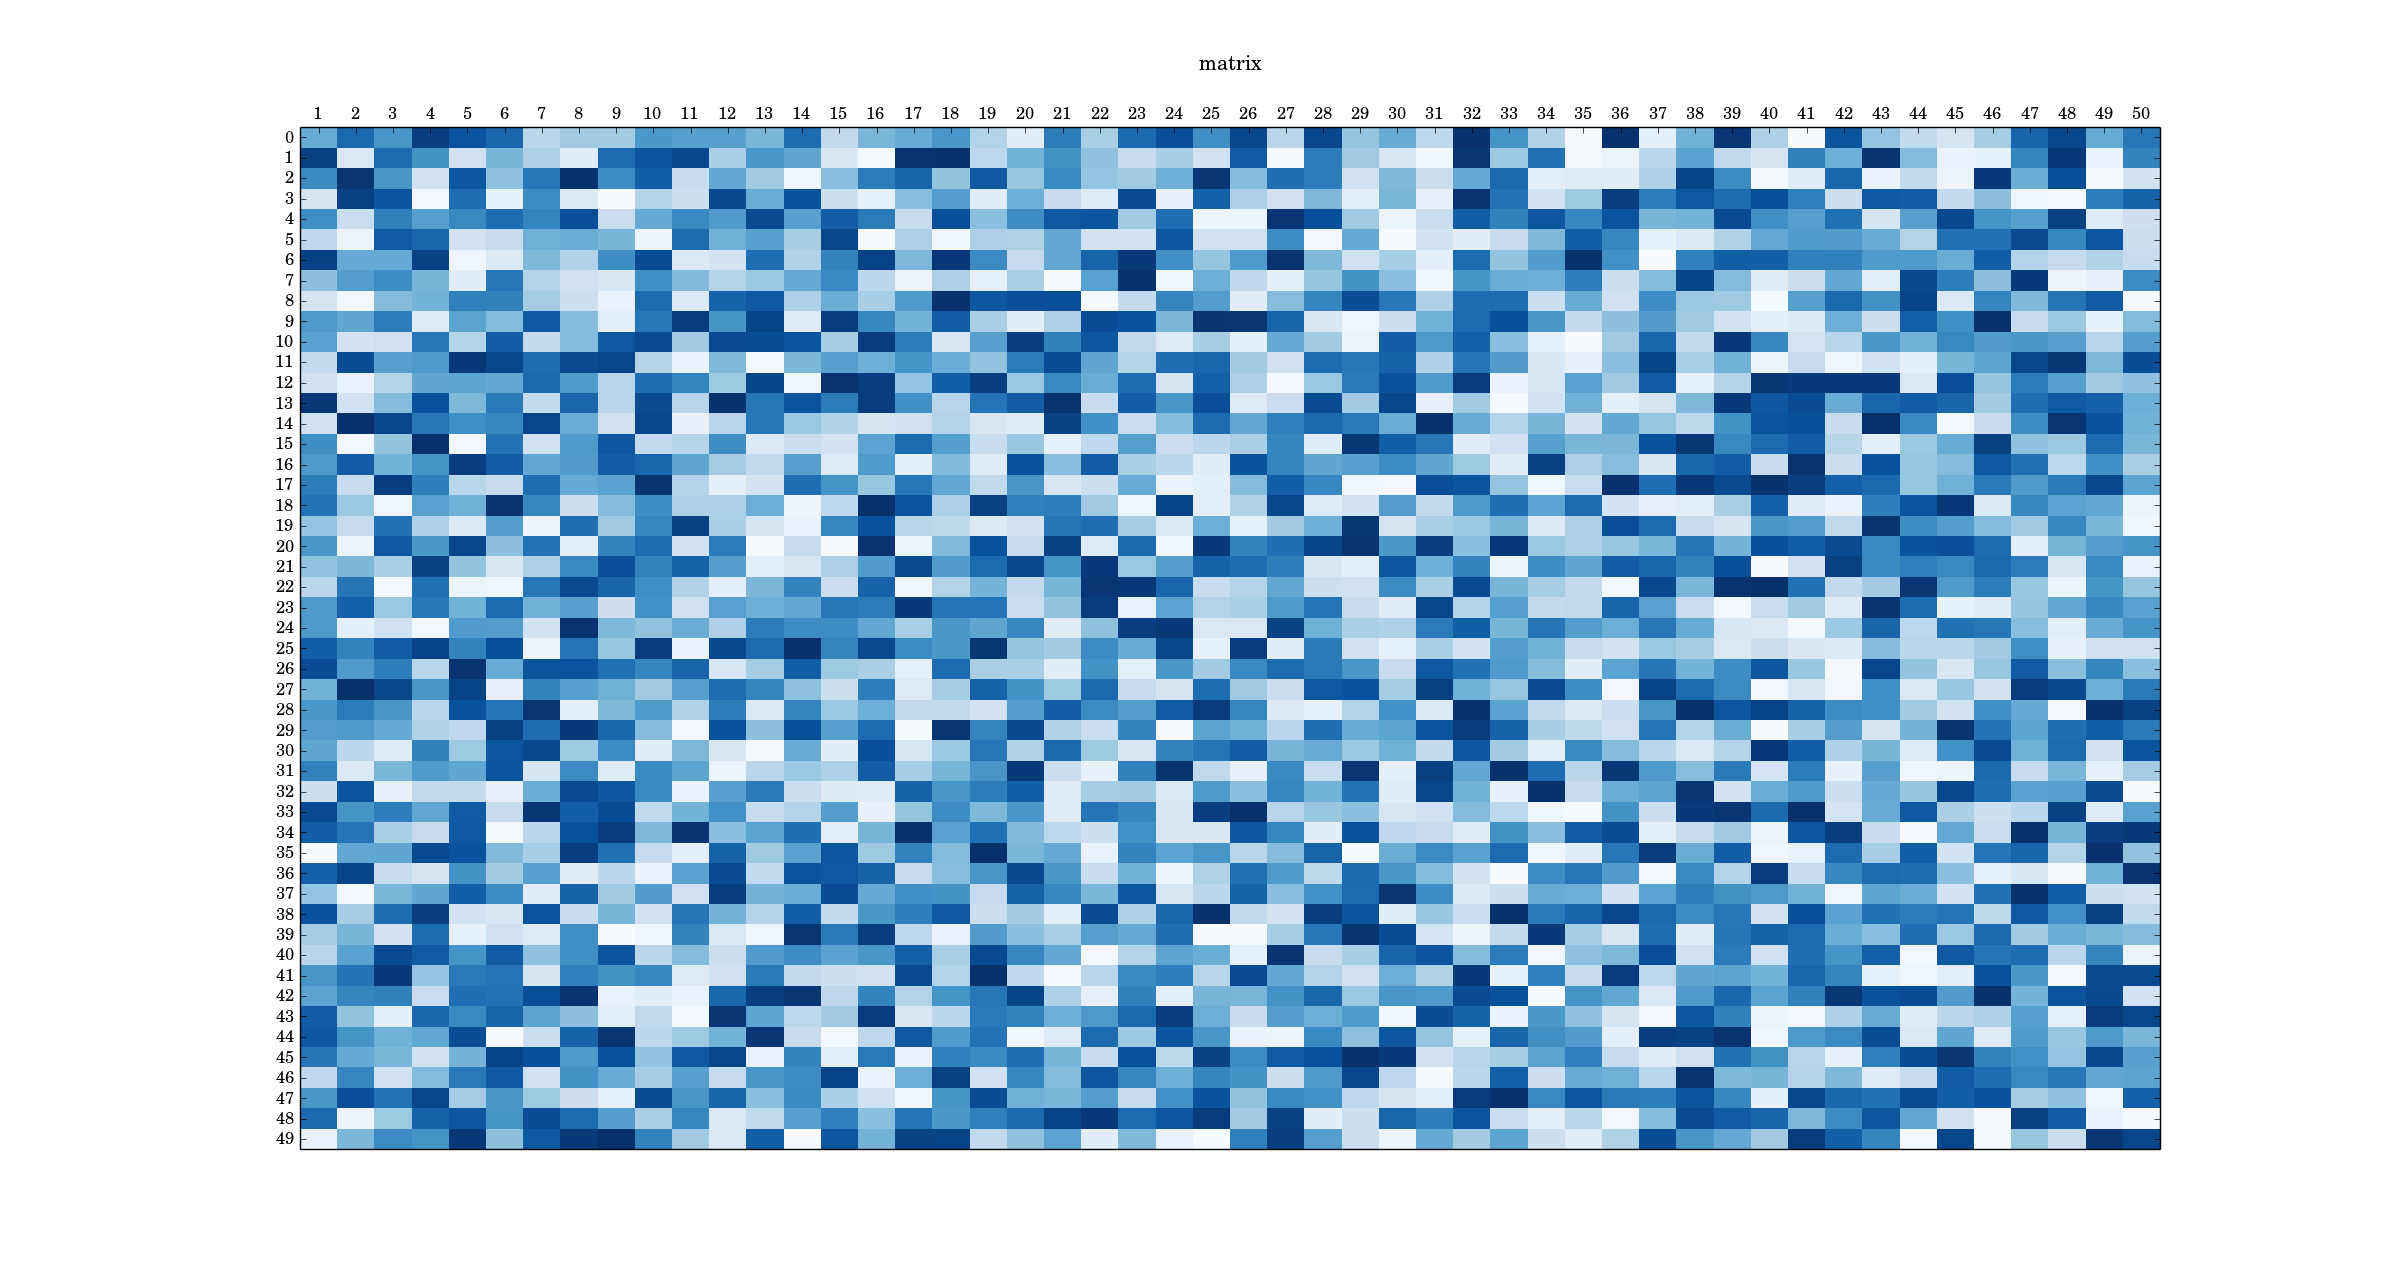
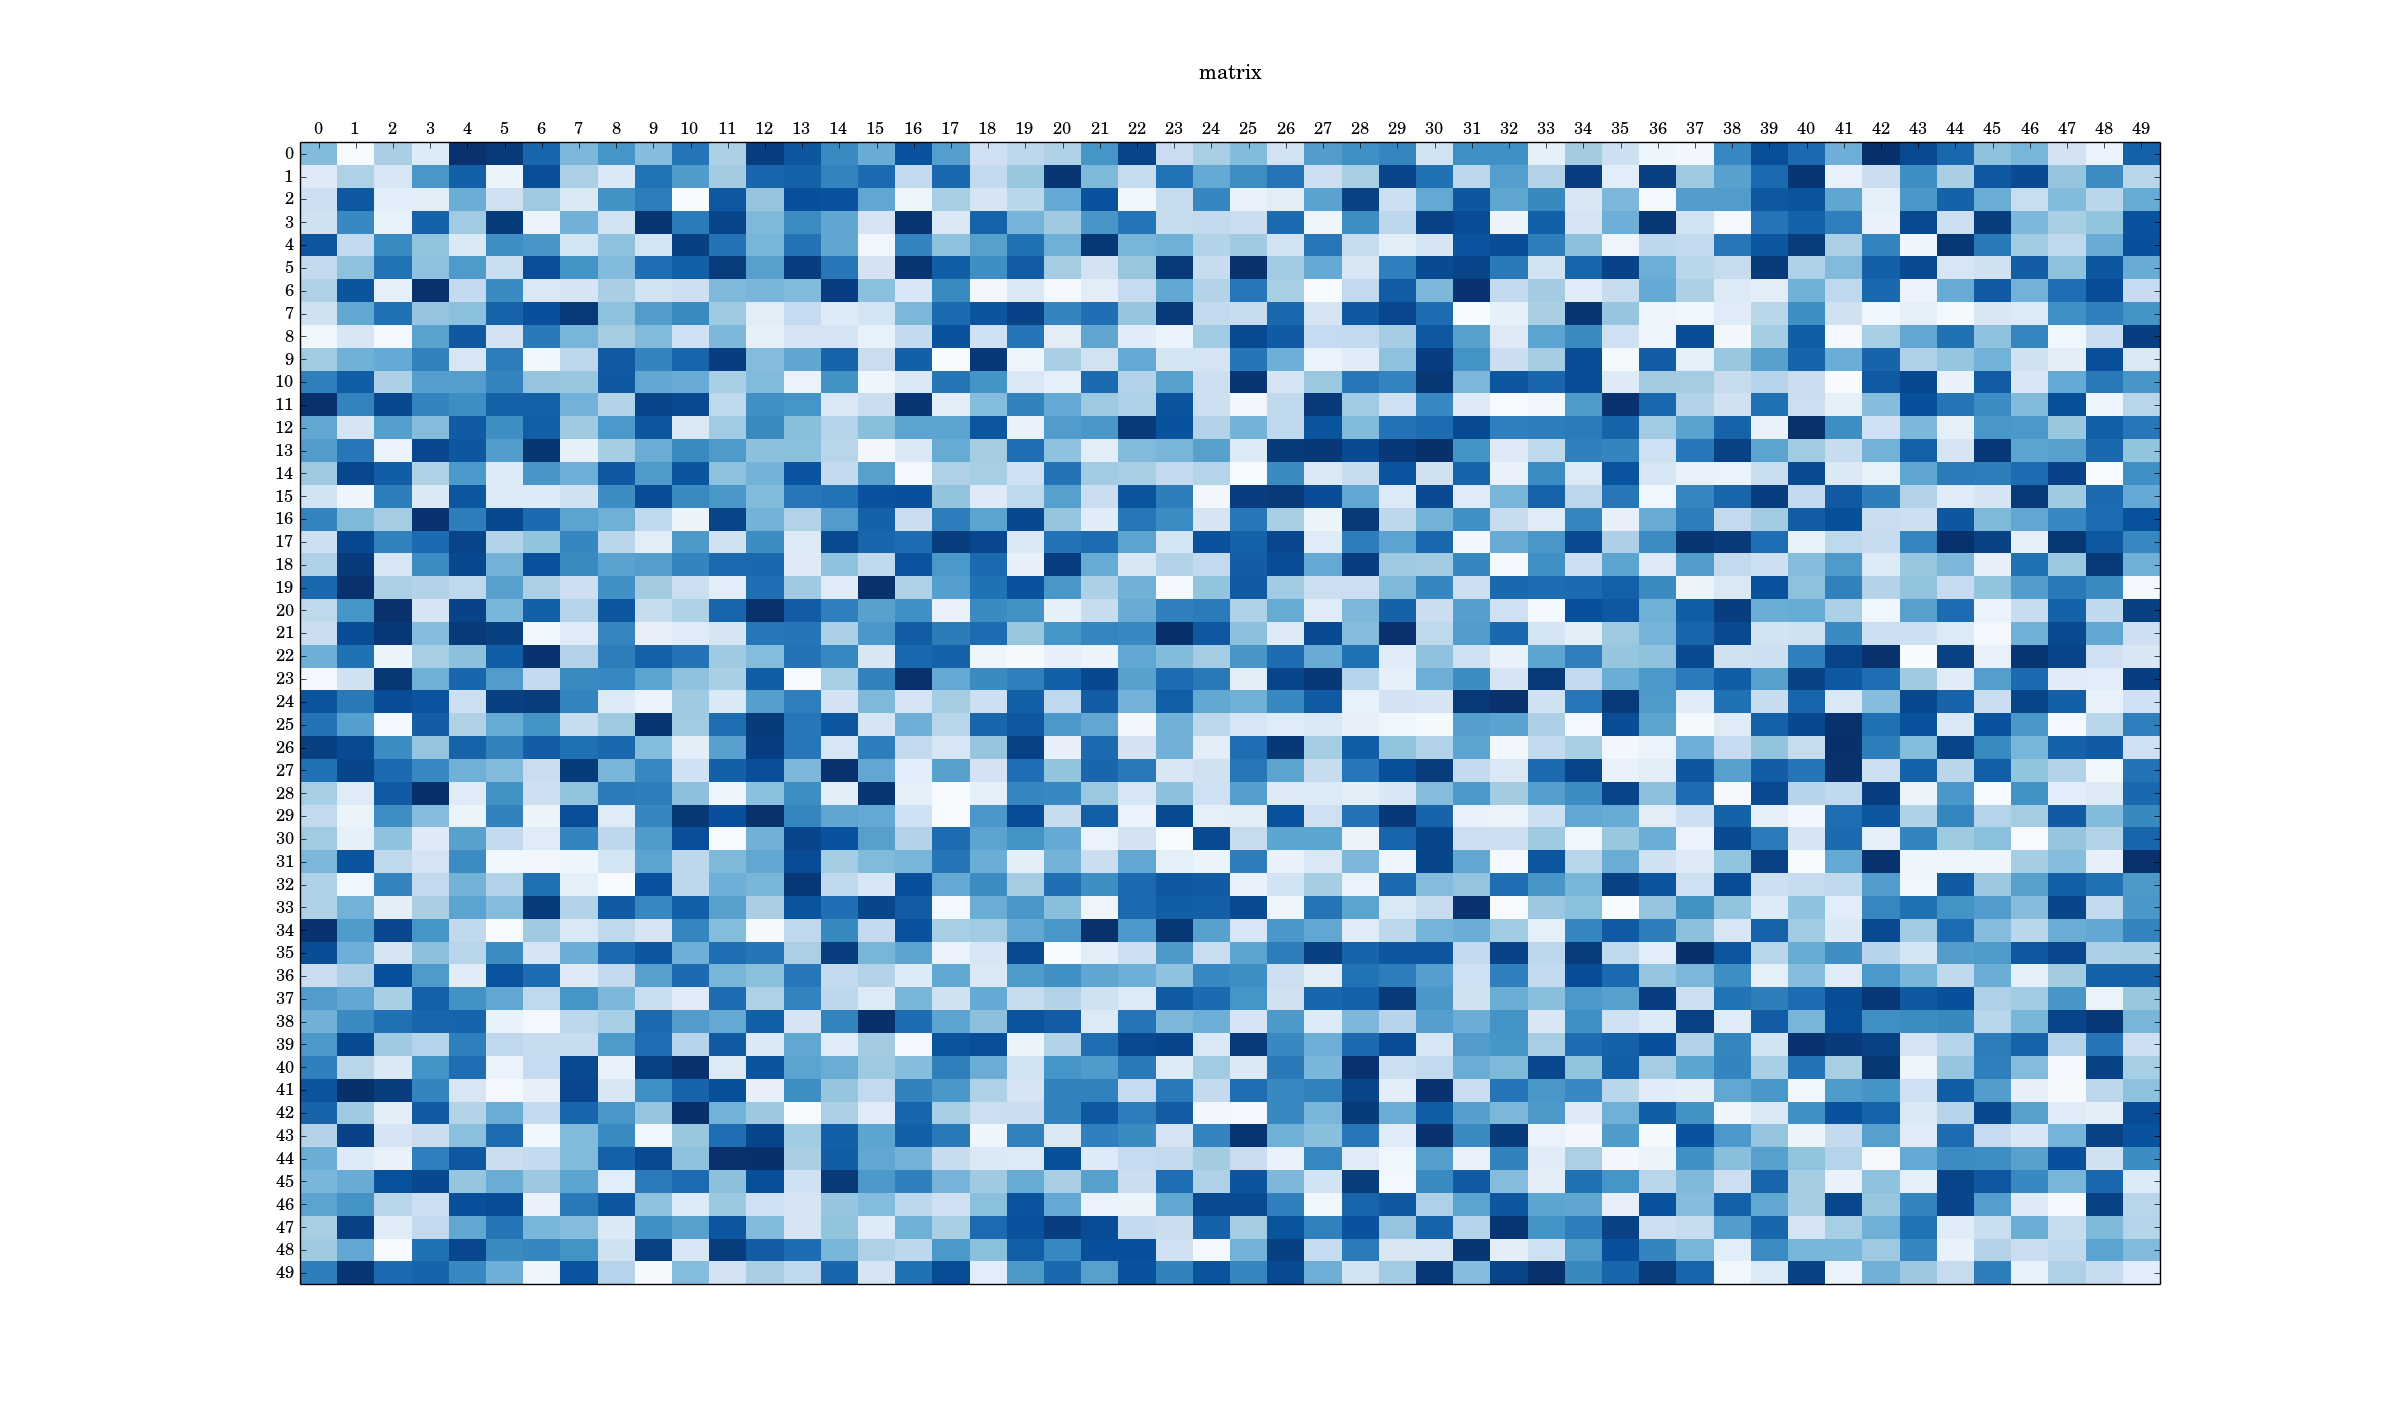
generalise handling of input lists, fix axis labels

diff --git a/datavision.py b/datavision.py
@@ -28,7 +28,7 @@
 #                                                                              #
 ################################################################################
 
-version = "2014-11-17T1904Z"
+version = "2014-11-17T2334Z"
 
 import random
 import matplotlib.pyplot as plt
@@ -89,7 +89,7 @@ class Matrix(list):
         else:
             self._plotFigure, \
             self._plotAxes       = plotList(
-                                       list       = self,
+                                       listObject = self,
                                        title      = self.title,
                                        plotNumber = self._plotNumber,
                                        plot       = False,
@@ -117,7 +117,7 @@ class Matrix(list):
         self._plotShown = False
 
 def plotList(
-    list       = list,
+    listObject = None,
     title      = None,
     plotNumber = None,
     style      = "colormap",
@@ -129,47 +129,41 @@ def plotList(
     ):
     if not plotNumber:
         plotNumber = shijian.uniqueNumber()
-    # convert list to NumPy array
-    array = np.array(list)
-    dimensionality = len(array.shape)
-    if dimensionality == 2:
-        if style == "colormap":
-            # create axis labels
-            labelsColumn = []
-            labelsRow = []
-            for rowNumber in range(0, len(list)):
-                labelsRow.append(rowNumber + 1)
-                for columnNumber in range(0, len(list[rowNumber])):
-                    labelsColumn.append(columnNumber)
-            figure = plt.figure(str(plotNumber))
-            axes = figure.add_subplot(111)
-            colormap = axes.pcolor(array, cmap = plt.cm.Blues)
-            # major ticks at middle of each cell
-            axes.set_xticks(np.arange(array.shape[0]) + 0.5, minor = False)
-            axes.set_yticks(np.arange(array.shape[1]) + 0.5, minor = False)
-            # table-like display
-            axes.invert_yaxis()
-            axes.xaxis.tick_top()
-            axes.set_xticklabels(labelsRow, minor = False)
-            axes.set_yticklabels(labelsColumn, minor = False)
-            # LaTeX text
-            plt.rc('text', usetex = True)
-            plt.rc('font', family = 'serif')
-            # title
-            if title:
-                plt.title(title, y = 1.05)
-            # plot/return/save
-            if plot:
-                plt.show()
-            if returnPlot:
-                return(figure, axes)
-            if save:
-                fileNameProposed = shijian.proposeFileName(
-                    fileName  = fileName,
-                    overwrite = overwrite
-                )
-                plt.savefig(fileNameProposed)
-        else:
-            raise Exception
-    else:
-        raise Exception
+    if style == "colormap":
+        # convert list to NumPy array
+        array = np.array(listObject)
+        dimensionality = len(array.shape)
+        if dimensionality == 1:
+            array = np.array([listObject])
+        # create axis labels
+        labelsColumn = list(range(0, array.shape[1]))
+        labelsRow = list(range(0, array.shape[0]))
+        # create figure and axes
+        figure = plt.figure(str(plotNumber))
+        axes = figure.add_subplot(111)
+        colormap = axes.pcolor(array, cmap = plt.cm.Blues)
+        # major ticks at middle of each cell
+        axes.set_xticks(np.arange(array.shape[1]) + 0.5, minor = False)
+        axes.set_yticks(np.arange(array.shape[0]) + 0.5, minor = False)
+        # table-like display
+        axes.invert_yaxis()
+        axes.xaxis.tick_top()
+        axes.set_xticklabels(labelsColumn, minor = False)
+        axes.set_yticklabels(labelsRow, minor = False)
+        # LaTeX text
+        plt.rc('text', usetex = True)
+        plt.rc('font', family = 'serif')
+        # title
+        if title:
+            plt.title(title, y = 1.05)
+        # plot/return/save
+        if plot:
+            plt.show()
+        if returnPlot:
+            return(figure, axes)
+        if save:
+            fileNameProposed = shijian.proposeFileName(
+                fileName  = fileName,
+                overwrite = overwrite
+            )
+            plt.savefig(fileNameProposed)

diff --git a/examples.py b/examples.py
@@ -1,6 +1,7 @@
 #!/usr/bin/env python
 
 import time
+import random
 import datavision as datavision
 
 def main():
@@ -9,14 +10,14 @@ def main():
     matrix1 = [[ 1,  2,  3 ],
                [ 4,  5,  6 ],
                [ 7,  8,  9 ]]
-    datavision.plotList(list = matrix1)
+    datavision.plotList(listObject = matrix1)
     
     print("plot 4 x 4 list")
     matrix2 = [[ 1,  2,  3,  4 ],
               [  5,  6,  7,  8 ],
               [  9, 10, 11, 12 ],
               [ 13, 14, 15, 16 ]]
-    datavision.plotList(list = matrix2)
+    datavision.plotList(listObject = matrix2)
     
     print("plot 5 x 5 list")
     matrix3 = [[  1,  2,  3,  4,  5 ],
@@ -24,7 +25,17 @@ def main():
                [ 11, 12, 13, 14, 15 ],
                [ 16, 17, 18, 19, 20 ],
                [ 21, 22, 23, 24, 25 ]]
-    datavision.plotList(list = matrix3)
+    datavision.plotList(listObject = matrix3)
+
+    print("plot 1 x 3 list")
+    matrix4 = [[1],
+               [2],
+               [3]]
+    datavision.plotList(listObject = matrix4)
+
+    print("plot 3-element list as 3 x 1 list")
+    matrix5 = [1, 2, 3]
+    datavision.plotList(listObject = matrix5)
 
     input("Press Enter to continue.")
 
@@ -55,6 +66,24 @@ def main():
             matrix[row][column] = 10
             matrix.plot()
             time.sleep(1)
+
+    input("Press Enter to continue.")
+
+    matrix.closePlot()
+
+    print("plot 10 x 10 matrix and display it changing in a loop")
+    matrix = datavision.Matrix(
+        title = "matrix",
+        numberOfColumns = 10,
+        numberOfRows = 10,
+        randomise = True
+    )
+    for row in range(len(matrix)):
+        for column in range(len(matrix[row])):
+            print("update matrix")
+            matrix[row][column] = random.uniform(-1, 1)
+            matrix.plot()
+            #time.sleep(0.01)
     
     matrix.closePlot()
 
